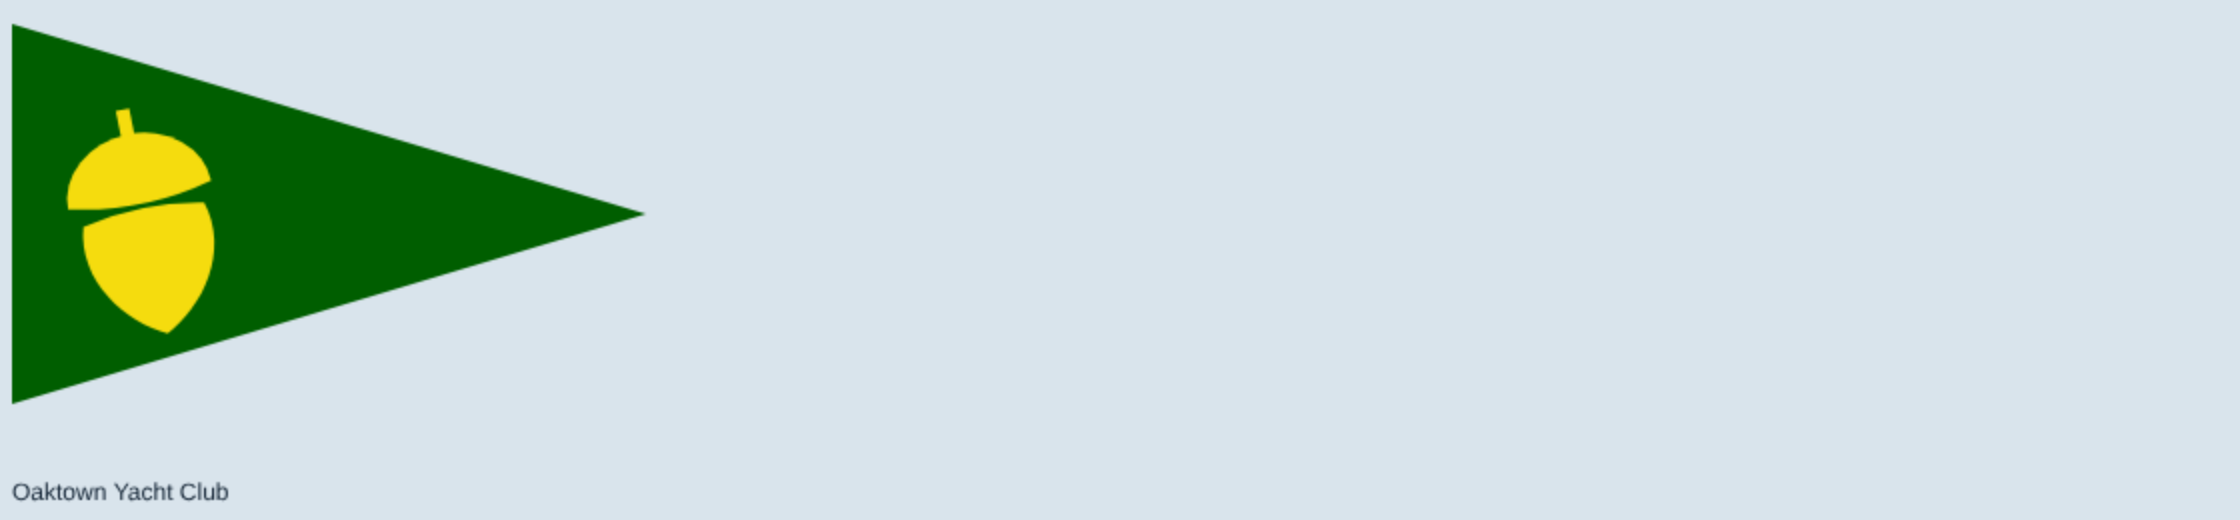
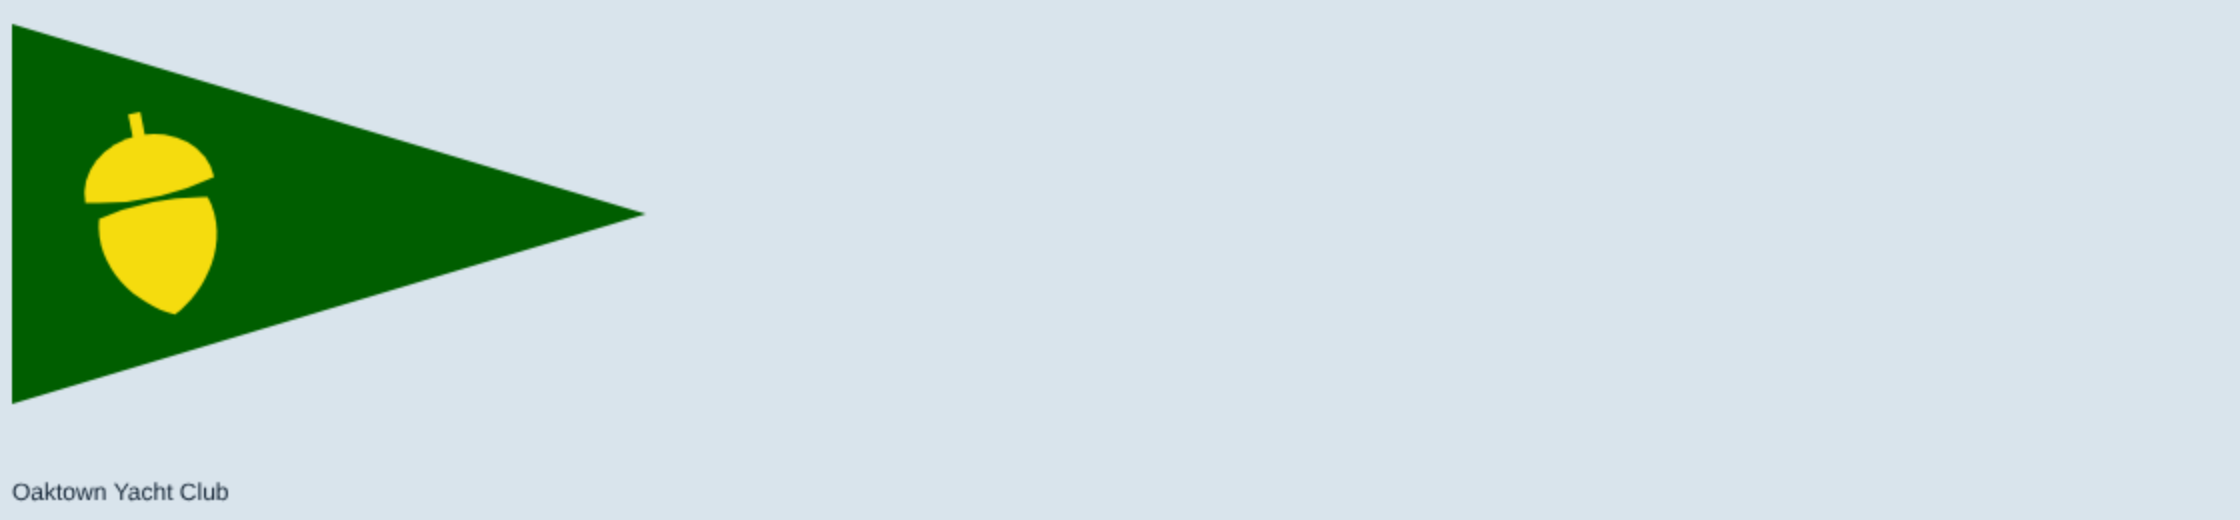
Burgees: Oaktown's acorn recentered and a little smaller, clear of the edges
Claude-Session: https://claude.ai/code/session_012Uu5QjYRsEpBxuz7xgHWhs

Changed region(s): [[0.0312, 0.2154, 0.0938, 0.6462]]

diff --git a/src/render/burgeeArt.ts b/src/render/burgeeArt.ts
@@ -112,7 +112,7 @@ export const PARODY_BURGEES: Burgee[] = [
       oakLeaf(g, X0, H * 0.515, H * 0.58, 0.3, WHITE); // one white oak leaf, leaning a little toward the fly, well inside the panel
       border(g, W, H, 'pennant', BORDER, 0.045); rect(g, WHITE, 0, 0, W * 0.04, H); } },
   { id: 'oyc', shape: 'pennant', ratio: 1.667, // Oaktown YC, after the City of Oakland's flag (the owner's): its green for the field, its yellow for one acorn
-    draw: (g, W, H) => { fill(g, W, H, '#005e00'); acorn(g, W * 0.21, H * 0.52, H * 0.6, -0.2, '#f5dc0e'); } },
+    draw: (g, W, H) => { fill(g, W, H, '#005e00'); acorn(g, W * 0.225, H * 0.5, H * 0.54, -0.2, '#f5dc0e'); } },
   { id: 'iyc', shape: 'pennant', ratio: 2, // modern, thrifty: sand, white and teal stripes
     draw: (g, W, H) => { rect(g, '#e6cf99', 0, 0, W, H / 3); rect(g, WHITE, 0, H / 3, W, H / 3); rect(g, '#16a0a6', 0, H * 2 / 3, W, H / 3); oval(g, '#e6cf99', W * 0.16, H / 2, W * 0.1, H * 0.08); } },
   { id: 'aeyc', shape: 'pennant', ratio: 1.6, // mid-century: sky blue and white, one wind swirl
